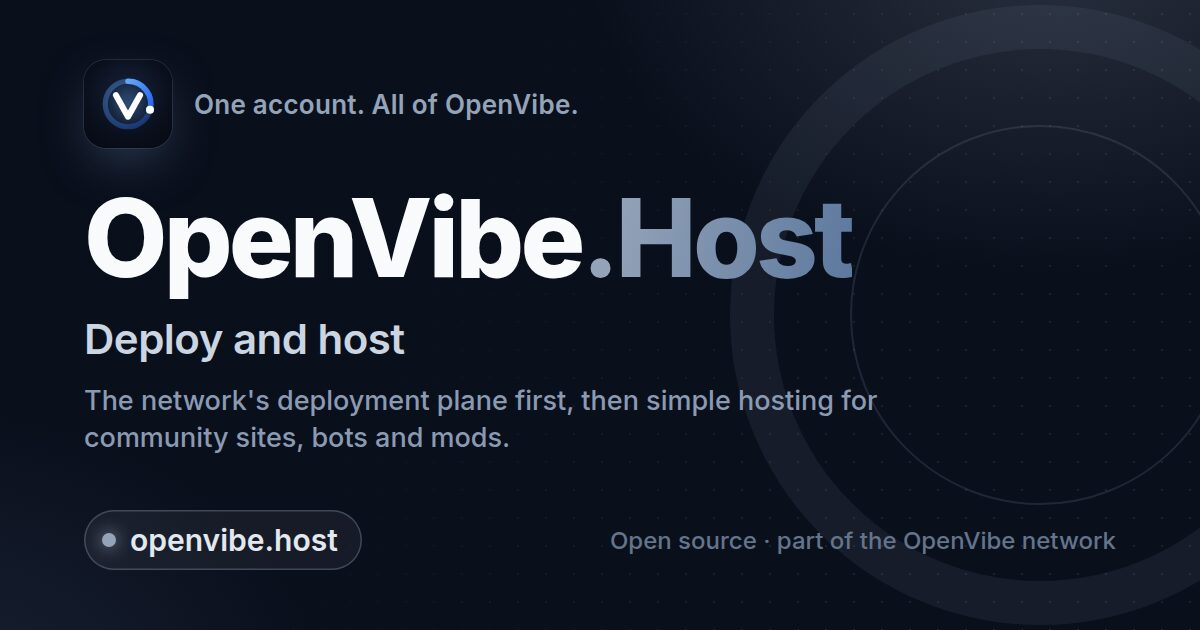
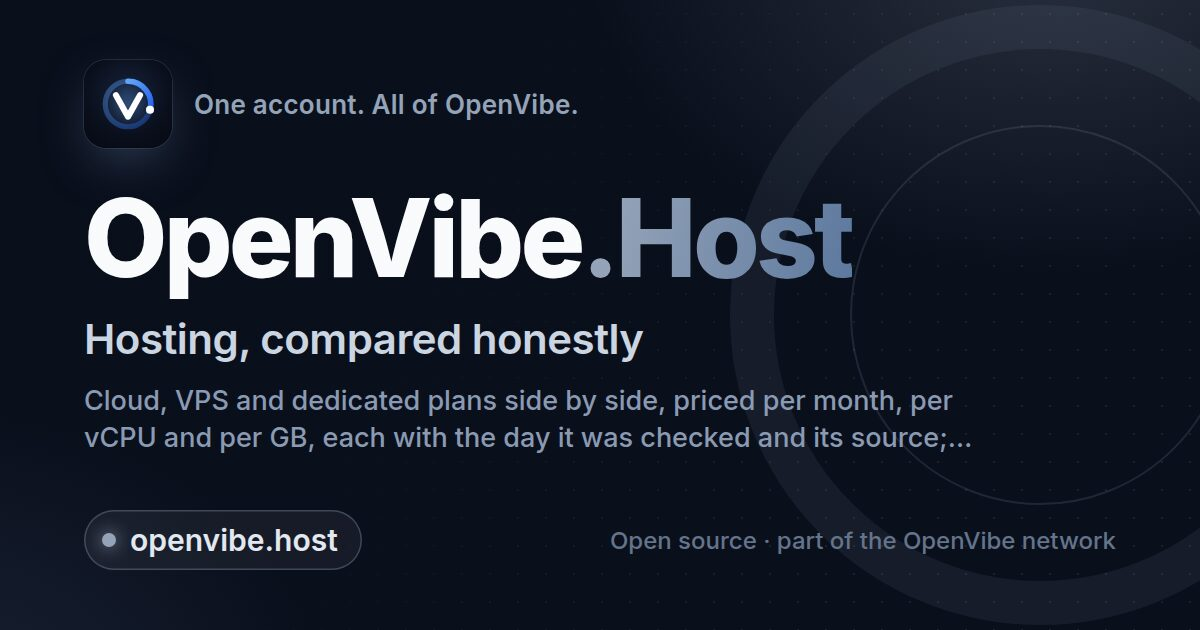
Shared 4.0.3: share cards for Run and the new Host (#64)
Share cards: a new `run` card (openvibe.run got a site block in openvibe-contracts 0.141.0) and a redrawn `host` card (tagline "Hosting, compared honestly"). Drawn with `scripts/build-social-cards.js --only host,run`.

Changed region(s): [[0.0617, 0.6032, 0.8017, 0.7238], [0.0617, 0.5127, 0.555, 0.573]]

diff --git a/CHANGELOG.md b/CHANGELOG.md
@@ -4,6 +4,11 @@ All notable changes to `openvibe-shared`. Versions follow [semver](https://semve
 breaking change to any exported module, browser global or served file name is a new major.
 A release is the git tag `vX.Y.Z`; consumers pin the tag's tarball (see README).
 
+## 4.0.3 — 2026-10-11
+
+- Share cards: `run` (openvibe.run has a site block since openvibe-contracts 0.141.0) and a redrawn `host` (its tagline
+  is now "Hosting, compared honestly").
+
 ## 4.0.2 — 2026-10-11
 
 - `shell.page()` finds the site's share card from `navbar.service` or `footer.service` when the page itself names no
